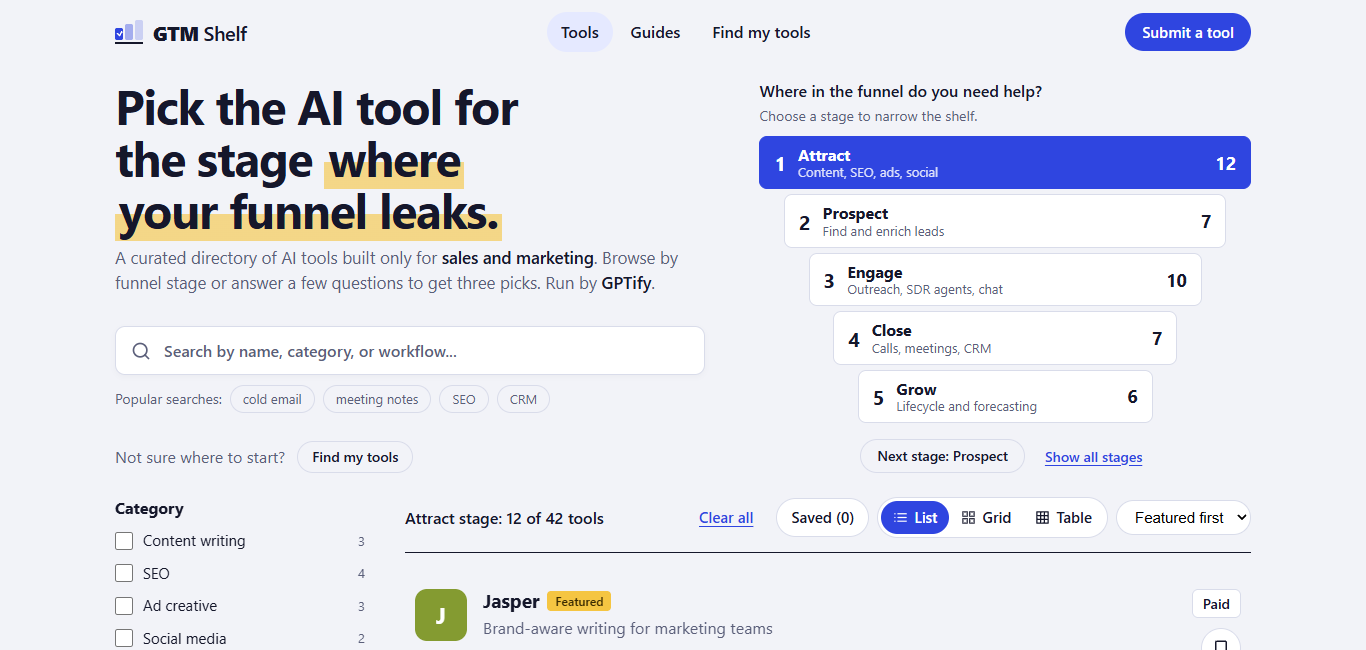
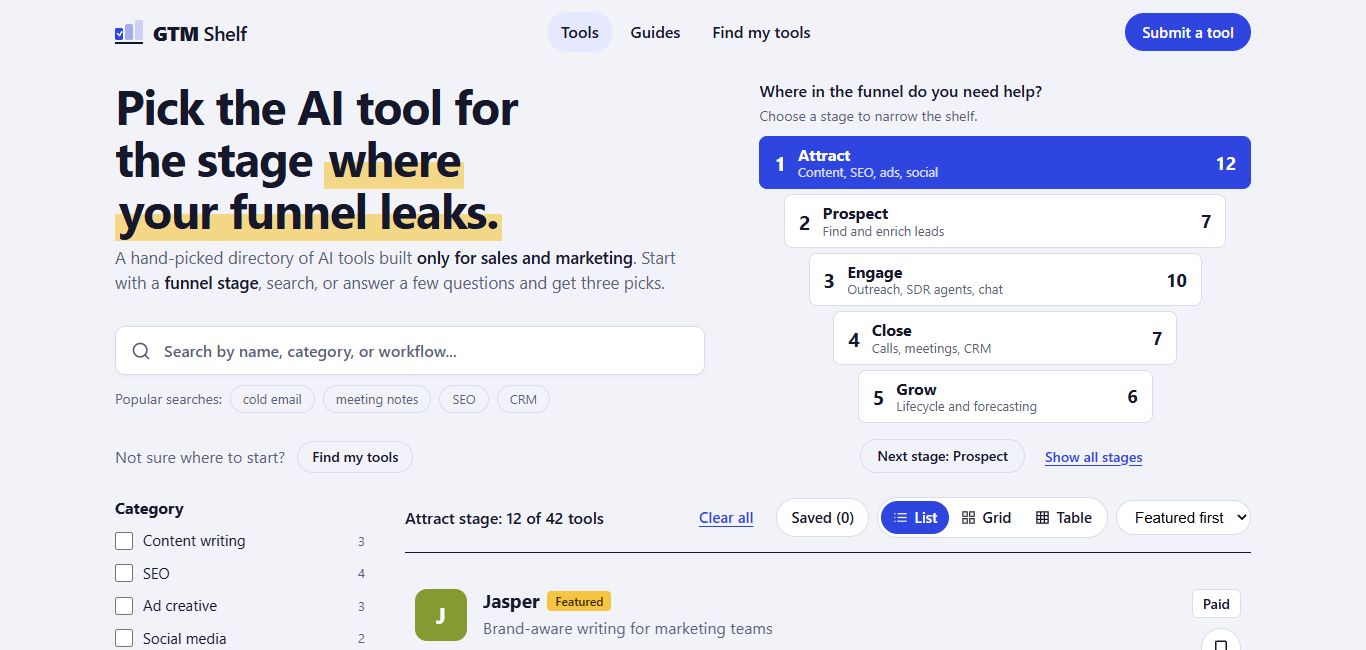
fix(copy): update hero headline breaks, yellow highlight, and lede copy to exact reference

Changed region(s): [[0.0922, 0.3692, 0.4919, 0.4615]]

diff --git a/components/Hero.tsx b/components/Hero.tsx
@@ -16,10 +16,12 @@ export function Hero({ searchQuery, onSearchChange, children }: HeroProps) {
       <div className="hero-text">
         <div className="hero-intro">
           <h1 id="h1">
-            Pick the AI tool for the stage <span className="hl">where your funnel leaks.</span>
+            Pick the AI tool for<br className="desk-br" />{' '}
+            the stage <mark className="hl">where<br className="desk-br" />{' '}
+            your funnel leaks.</mark>
           </h1>
           <p className="lede">
-            A curated directory of AI tools built only for <strong>sales and marketing</strong>. Browse by funnel stage or answer a few questions to get three picks. Run by <strong>GPTify</strong>.
+            A hand-picked directory of AI tools built <strong>only for sales and marketing</strong>. Start with a <strong>funnel stage</strong>, search, or answer a few questions and get three picks.
           </p>
         </div>
 

diff --git a/app/globals.css b/app/globals.css
@@ -108,8 +108,10 @@ h1{font:700 clamp(2.2rem,3.6vw,3rem)/1.08 var(--display);letter-spacing:-.025em;
 .allstages:hover{color:var(--brand)}
 @keyframes grow{from{clip-path:inset(0 50% 0 50% round 8px);opacity:0}to{clip-path:inset(0 round 8px);opacity:1}}
 
+mark{background:transparent;color:inherit}
 @media (min-width:861px){
   .fnav .btn-soft,#fsee{display:none!important}
+  .desk-br{display:inline}
 }
 @media (max-width:860px){
   .hero{grid-template-columns:1fr;gap:32px;align-items:start;padding-top:16px;padding-bottom:32px}
@@ -117,6 +119,7 @@ h1{font:700 clamp(2.2rem,3.6vw,3rem)/1.08 var(--display);letter-spacing:-.025em;
   .hero-action{margin-top:24px}
   .hero-funnel,.funnel-col{display:block;height:auto}
   h1{margin-top:0}
+  .desk-br{display:none}
 }
 
 /* browse */
